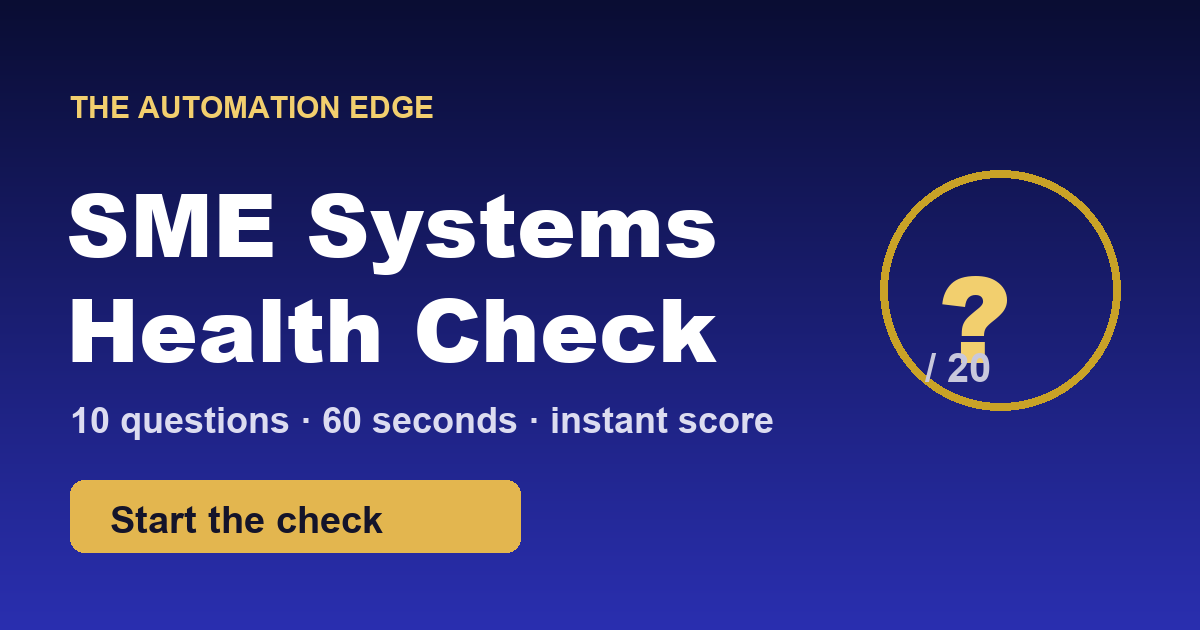
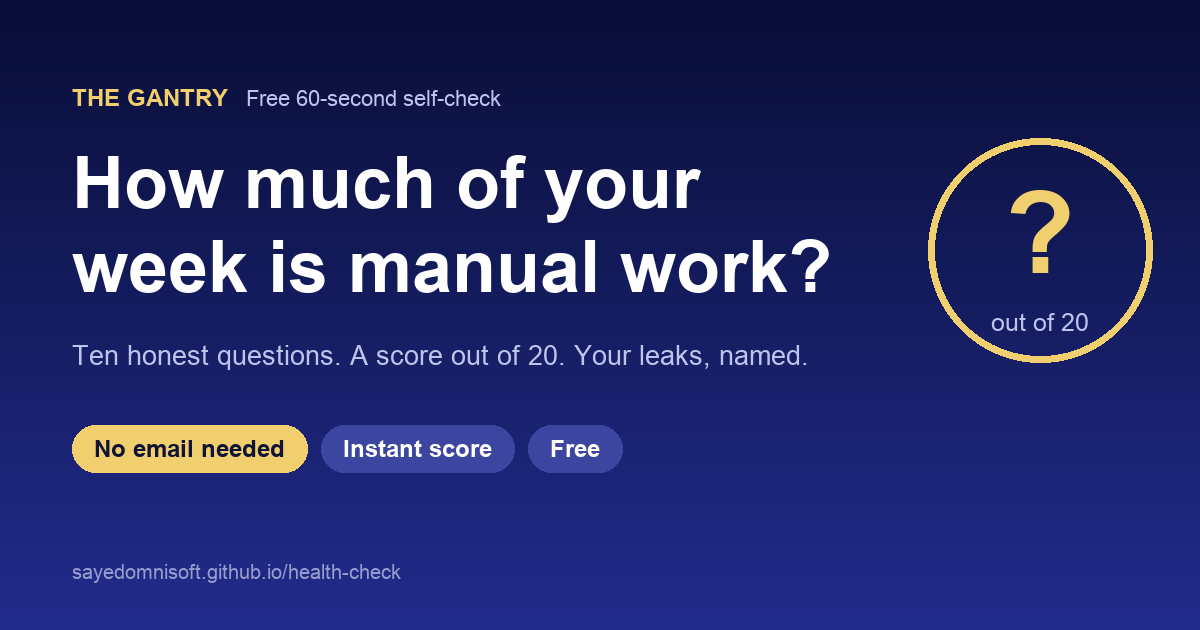
Health Check: 20-min review exit CTA, band next-steps, Gantry OG image

diff --git a/index.html b/index.html
@@ -5,9 +5,10 @@
 <meta name="viewport" content="width=device-width, initial-scale=1.0">
 <title>SME Systems Health Check — The Gantry</title>
 <meta name="description" content="10 questions, 60 seconds: find out how much of your week your business is losing to manual work — and which process is leaking the most.">
-<meta property="og:title" content="SME Systems Health Check">
-<meta property="og:description" content="10 questions, 60 seconds: how much of your week is your business losing to manual work?">
+<meta property="og:title" content="How much of your week is manual work? Score your business in 60 seconds">
+<meta property="og:description" content="10 honest questions, a score out of 20, and the exact processes leaking your hours. Free, no email needed to see your result. Built for Singapore SMEs.">
 <meta property="og:type" content="website">
+<meta property="og:url" content="https://sayedomnisoft.github.io/health-check/">
 <meta property="og:image" content="https://sayedomnisoft.github.io/health-check/og-image.png">
 <meta name="twitter:card" content="summary_large_image">
 <style>
@@ -81,6 +82,9 @@
     h1 { font-size: 25px; }
     .qtext { font-size: 19px; }
   }
+  .cta-ghost { display: block; text-align: center; margin-top: 10px; padding: 12px; font-size: 14px; font-weight: 600; color: var(--muted); border: 1px solid rgba(255,255,255,0.22); border-radius: 10px; text-decoration: none; }
+  .cta-ghost:hover { color: #fff; border-color: rgba(255,255,255,0.5); }
+  .next-step { margin-top: 18px; }
 </style>
 </head>
 <body>
@@ -115,8 +119,13 @@
       <div class="leaks-title">YOUR BIGGEST LEAKS</div>
       <ul class="leaks" id="leaks"></ul>
     </div>
-    <a class="cta" href="https://sayedr.substack.com/subscribe?utm_source=health-check" target="_blank" rel="noopener">Get the weekly fix — subscribe free</a>
-    <div class="cta-sub">The Gantry: playbooks for running an SME without heroics. One idea a week buys back hours.</div>
+    <div class="next-step" id="nextStep">
+      <div class="leaks-title">WHAT TO DO WITH THIS</div>
+      <p class="verdict" id="nextText"></p>
+    </div>
+    <a class="cta" id="bookBtn" href="https://sayedomnisoft.github.io/tools/review.html?utm_source=health-check" target="_blank" rel="noopener">Talk it through — 20-min systems review</a>
+    <div class="cta-sub" id="ctaSub">Bring the one process that annoys you most. We walk it end to end and you leave with the first fix worth making, or an honest "not yet". No slides, no licence quote.</div>
+    <a class="cta-ghost" href="https://sayedr.substack.com/subscribe?utm_source=health-check" target="_blank" rel="noopener">Not ready to talk? Get the weekly fix instead</a>
     <button class="ghost" onclick="restart()">Retake the check</button>
     <div class="footer">Built by <a href="https://sayedr.substack.com" target="_blank" rel="noopener">Sayed Rashid</a> · The Gantry</div>
   </div>
@@ -161,16 +170,24 @@ const QUESTIONS = [
 const BANDS = [
   { min: 0, max: 4, name: "Systems-Ready",
     verdict: "You're ahead of the pack. Your operation runs on systems, not memory — which means you're one of the few SMEs actually ready to put AI and automation on top. Your next wins are refinement, not rescue.",
-    hours: "Teams at this level typically lose <strong>under 3 hours a week</strong> to manual work. Guard it." },
+    hours: "Teams at this level typically lose <strong>under 3 hours a week</strong> to manual work. Guard it.",
+    next: "Nothing here needs a call. The moment to revisit is a second site, a second entity, or a doubling of headcount. Until then, one idea a week is plenty.",
+    book: false },
   { min: 5, max: 10, name: "Held Together by Heroes",
     verdict: "Your business works — because a few good people carry it. The processes run on memory, effort, and WhatsApp. That's fine until a hero resigns, falls sick, or takes leave. The goal now: move what's in heads into systems, one process at a time.",
-    hours: "Teams at this level typically lose <strong>6–10 hours per person, per week</strong> to re-keying, checking, and chasing." },
+    hours: "Teams at this level typically lose <strong>6–10 hours per person, per week</strong> to re-keying, checking, and chasing.",
+    next: "Pick the one leak above that bit you most recently. That is the process to walk through first. Twenty minutes is enough to see whether it is a quick fix or a real project.",
+    book: true },
   { min: 11, max: 15, name: "The Spreadsheet Is the Business",
     verdict: "Right now, your real operating system is a collection of spreadsheets and chat groups — and one or two people who understand them. Growth will multiply the chaos, not the profit. The fix isn't more software; it's one source of truth, starting with your most painful process.",
-    hours: "Teams at this level typically lose <strong>10–16 hours per person, per week</strong> — more than a full working day." },
+    hours: "Teams at this level typically lose <strong>10–16 hours per person, per week</strong> — more than a full working day.",
+    next: "Do not buy anything yet. At this score the mistake is a big system bought in a hurry. Walk one process end to end with someone who has seen this before, and decide from that.",
+    book: true },
   { min: 16, max: 20, name: "Running on Luck",
     verdict: "Honest score — and honestly risky. Almost everything depends on people remembering, noticing, and firefighting. You don't need a transformation project; you need one bounded fix that proves what calm feels like. Start with the process that broke most recently.",
-    hours: "Teams at this level typically lose <strong>17+ hours per person, per week</strong> — and the errors cost more than the hours." }
+    hours: "Teams at this level typically lose <strong>17+ hours per person, per week</strong> — and the errors cost more than the hours.",
+    next: "Start with the process that broke most recently, not the biggest one. Twenty minutes on that single process is the fastest way to find out what calm would cost.",
+    book: true }
 ];
 
 let idx = 0, score = 0, leaks = [];
@@ -211,6 +228,9 @@ function finish() {
   document.getElementById("band").textContent = band.name;
   document.getElementById("verdict").textContent = band.verdict;
   document.getElementById("hours").innerHTML = band.hours;
+  document.getElementById("nextText").textContent = band.next;
+  document.getElementById("bookBtn").style.display = band.book ? "" : "none";
+  document.getElementById("ctaSub").style.display = band.book ? "" : "none";
   const ul = document.getElementById("leaks");
   ul.innerHTML = "";
   if (leaks.length) {
